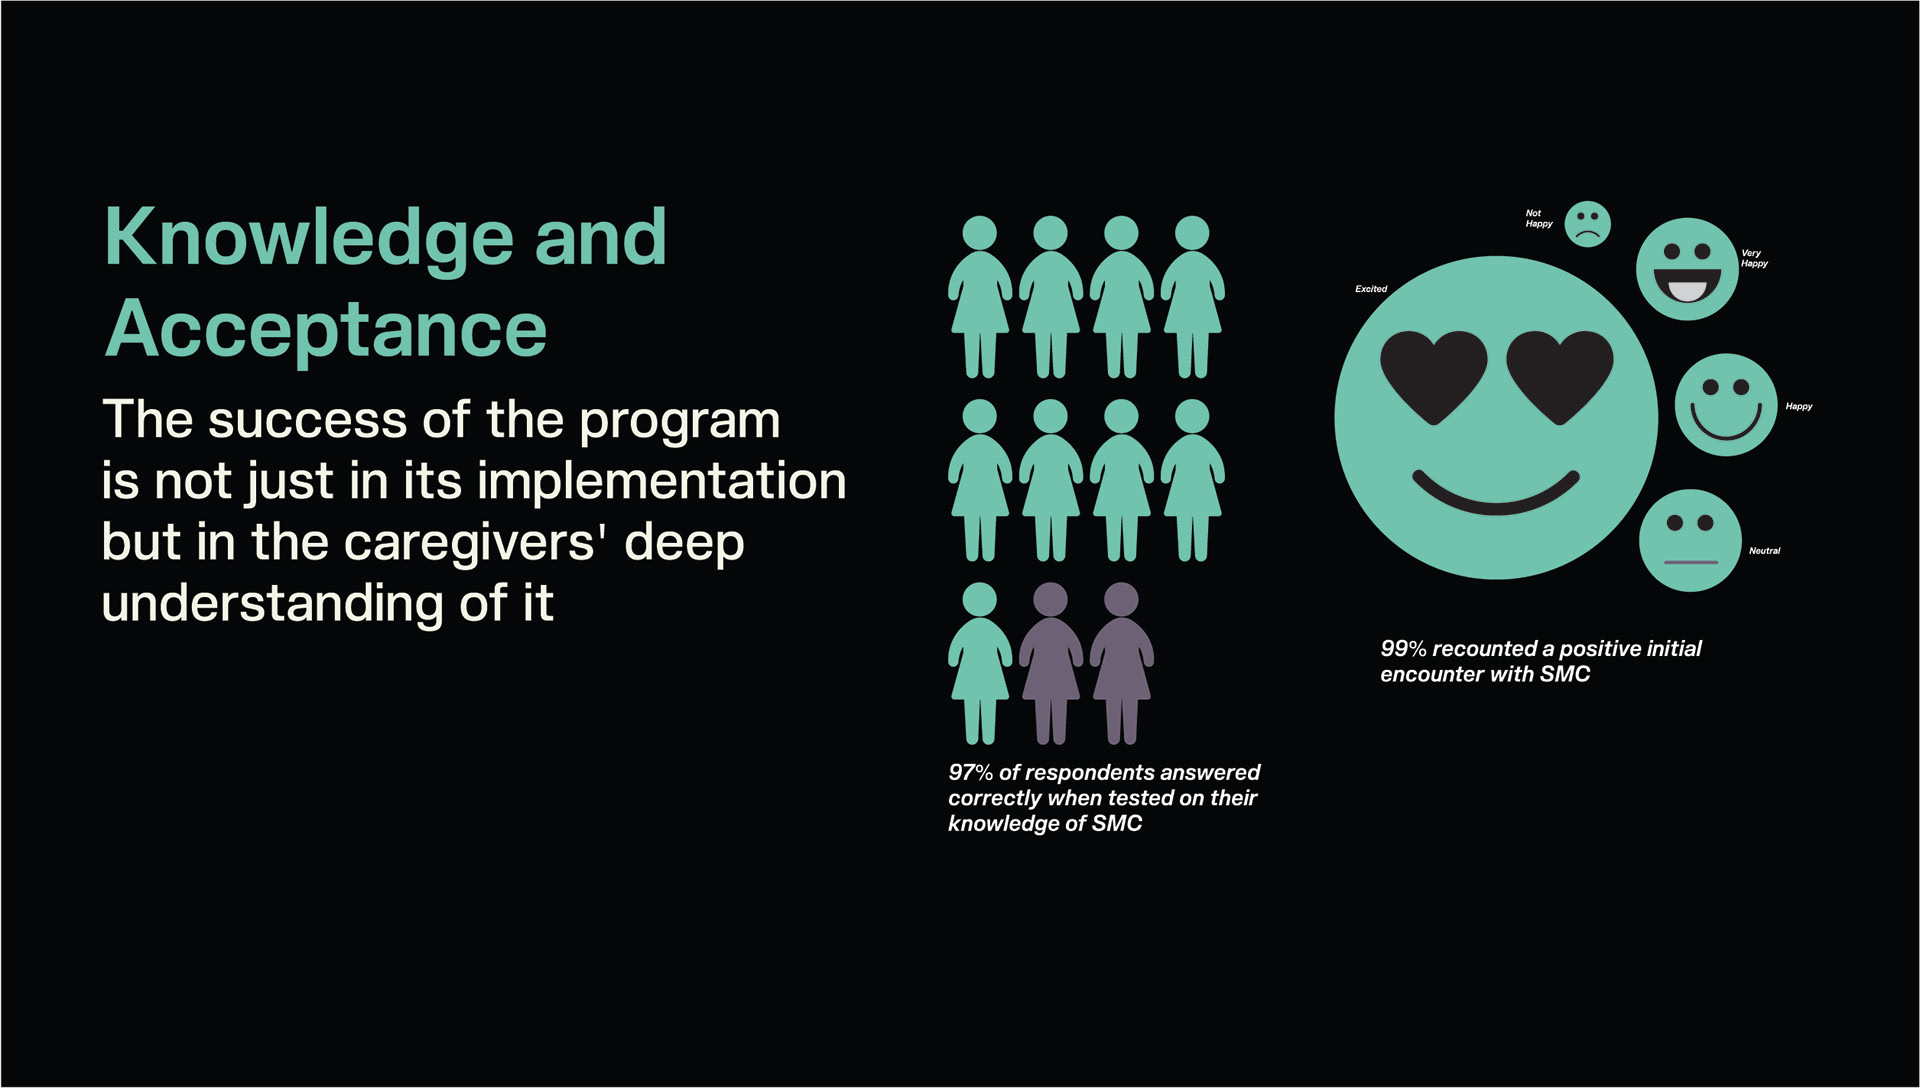
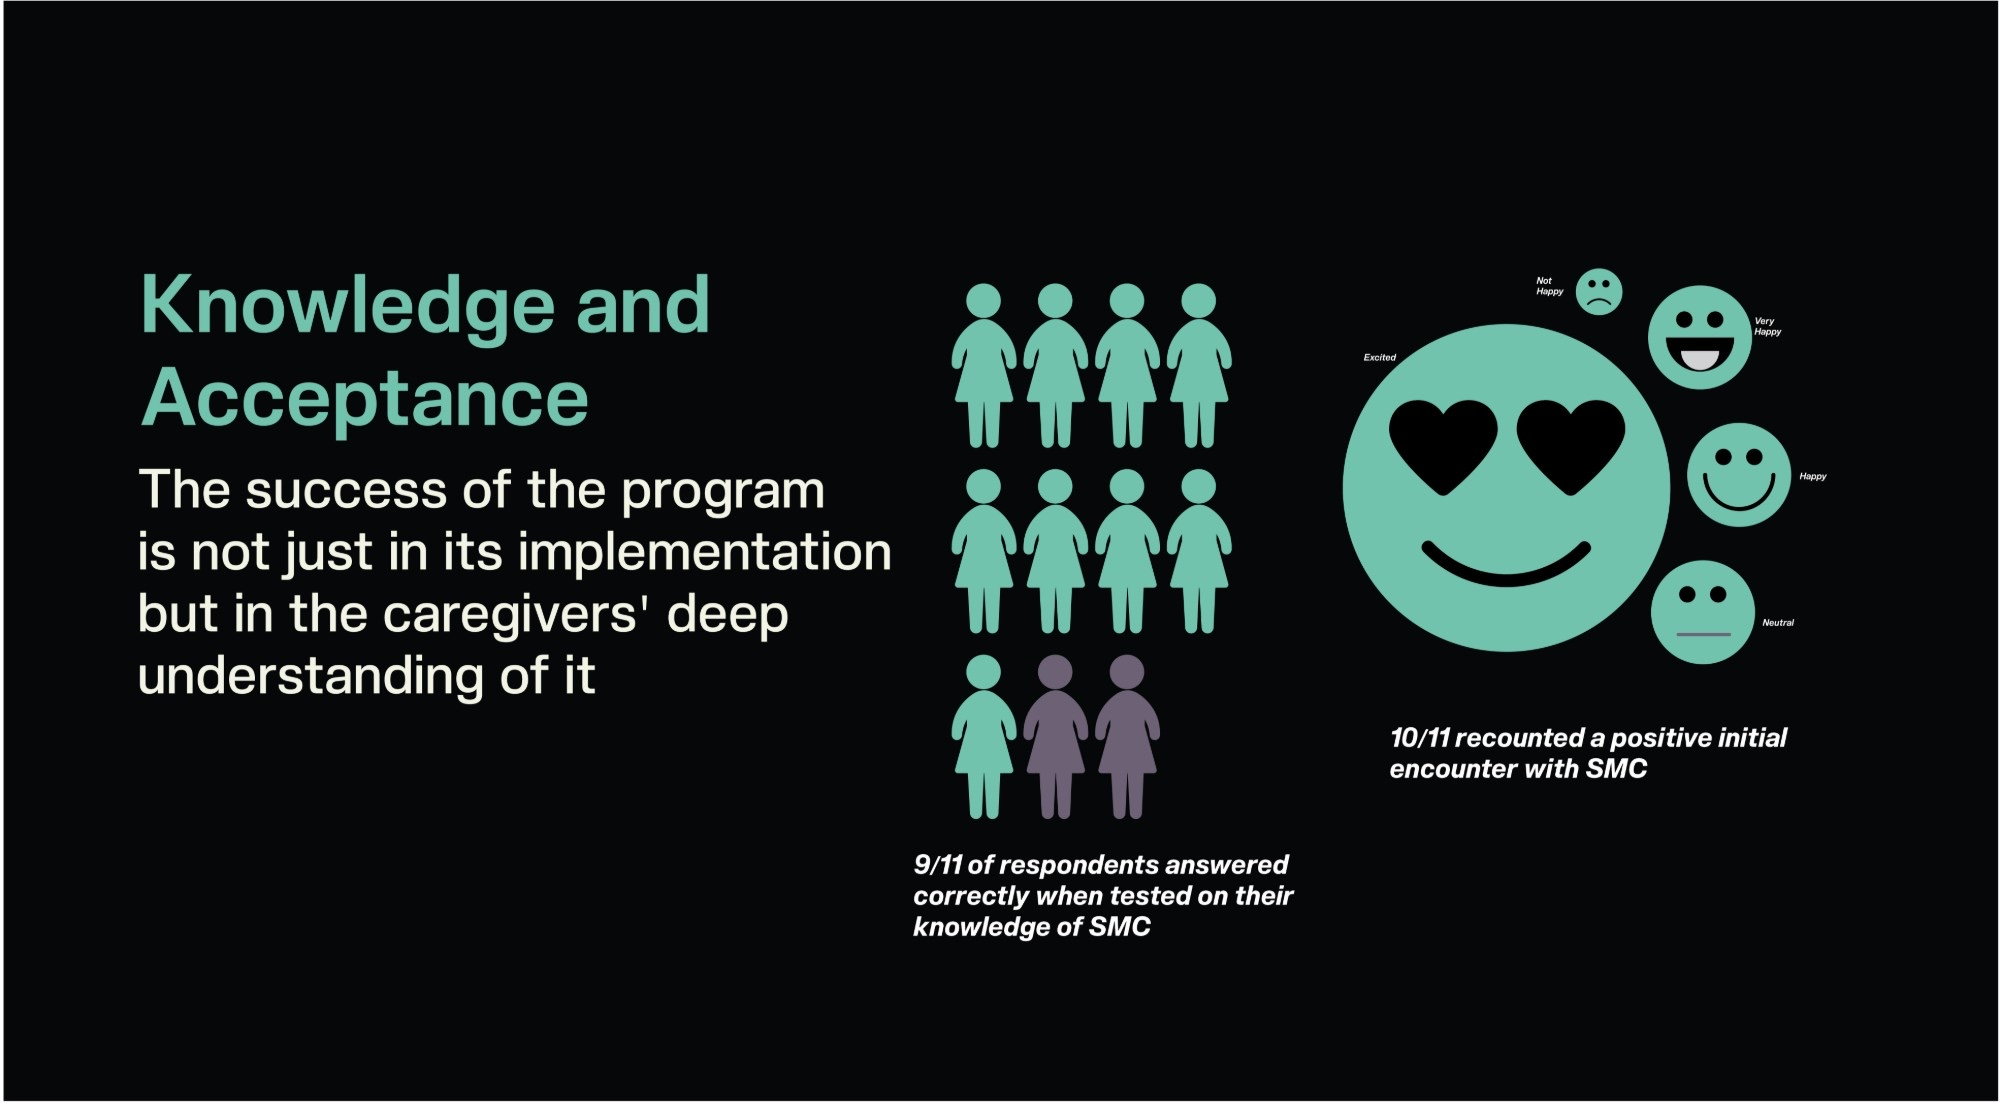
Swap in corrected Whispers of Wellness panels and cite real counts
All four new panels are in the original teal (#71C3AD), so they sit
with the rest of the set rather than the brighter mint of the previous
batch.

- Hero: "lived experience" corrected.
- Knowledge and Acceptance: now 9/11 and 10/11 rather than 97% and
  99%. The isotype draws 9 highlighted of 11, so picture and label
  finally agree.
- Barriers to Access: heading corrected, counts throughout. This panel
  now also carries the nomadic-families content, so the separate panel
  for it is retired.
- Adds the closing "Future of SMC" panel, which the page never had.

Case-study copy now states the counts the artwork shows: 9 of 11 on
knowledge, 10 of 11 on first encounter, and 7/5/5/3 of 11 across the
barriers.

Two panels are pulled until they are re-exported: the SMC intro and
money panel still reads 98% and 99%, and the old composite still shows
the previous headline and figures.

diff --git a/projects/whispers-of-wellness.html b/projects/whispers-of-wellness.html
@@ -144,8 +144,8 @@
           
           <h3>Insight 1: SMC is Highly Trusted</h3>
           <ul>
-            <li>Almost all of the eleven caregivers answered the SMC knowledge questions correctly.</li>
-            <li>Almost all described a positive first encounter with the programme.</li>
+            <li>9 of the 11 caregivers answered the SMC knowledge questions correctly.</li>
+            <li>10 of 11 described a positive first encounter with the programme.</li>
           </ul>
           <p>Caregivers view SMC as an important protection for their children.</p>
 
@@ -157,27 +157,21 @@
           <p>SMC not only protects children but also reduces household healthcare costs.</p>
 
           <h3>Insight 3: Structural Barriers Still Exist</h3>
-          <p>Some children still miss medication due to:</p>
+          <p>Some children still miss medication, and the reasons are practical rather than attitudinal:</p>
           <ul>
-            <li>caregiver absence</li>
-            <li>seasonal migration</li>
-            <li>illness at time of campaign</li>
-            <li>weather conditions</li>
+            <li>7 of 11 caregivers said their child was too unwell to take the medicine when the team came.</li>
+            <li>5 of 11 reported an allergy.</li>
+            <li>5 of 11 children were missed because the caregiver was away during the campaign.</li>
+            <li>3 caregivers named rain as a barrier.</li>
           </ul>
-          <p>These barriers are tied to livelihood patterns rather than awareness.</p>
+          <p>These barriers are tied to livelihood patterns rather than awareness — during harvest, caregivers move to their farms for weeks at a time, and pastoralist families travel with their livestock.</p>
           
           <div class="project-gallery">
-            <div class="gallery-item">
-              <img src="../images/wow/wow-2.jpg" alt="Key Insight 1">
+            <div class="gallery-item" style="grid-column: span 2;">
+              <img src="../images/wow/wow-2.jpg" alt="Knowledge and Acceptance — 9 of 11 caregivers answered the knowledge questions correctly, 10 of 11 described a positive first encounter">
             </div>
-            <div class="gallery-item">
-              <img src="../images/wow/wow-3.jpg" alt="Key Insight 2">
-            </div>
-            <div class="gallery-item">
-              <img src="../images/wow/wow-4.jpeg" alt="Key Insight 3">
-            </div>
-            <div class="gallery-item">
-              <img src="../images/wow/wow-5.jpeg" alt="Key Insight 4">
+            <div class="gallery-item" style="grid-column: span 2;">
+              <img src="../images/wow/wow-4.jpeg" alt="Barriers to Access — illness, allergies, caregiver absence and seasonal migration, each counted out of 11">
             </div>
           </div>
 
@@ -198,7 +192,7 @@
 
           <div class="project-gallery">
             <div class="gallery-item" style="grid-column: span 2;">
-              <img src="../images/wow/wow-6.jpg" alt="Final Outcomes">
+              <img src="../images/wow/wow-future.jpg" alt="The Future of SMC — caregivers as frontline defenders of their children's health">
             </div>
           </div>
 
